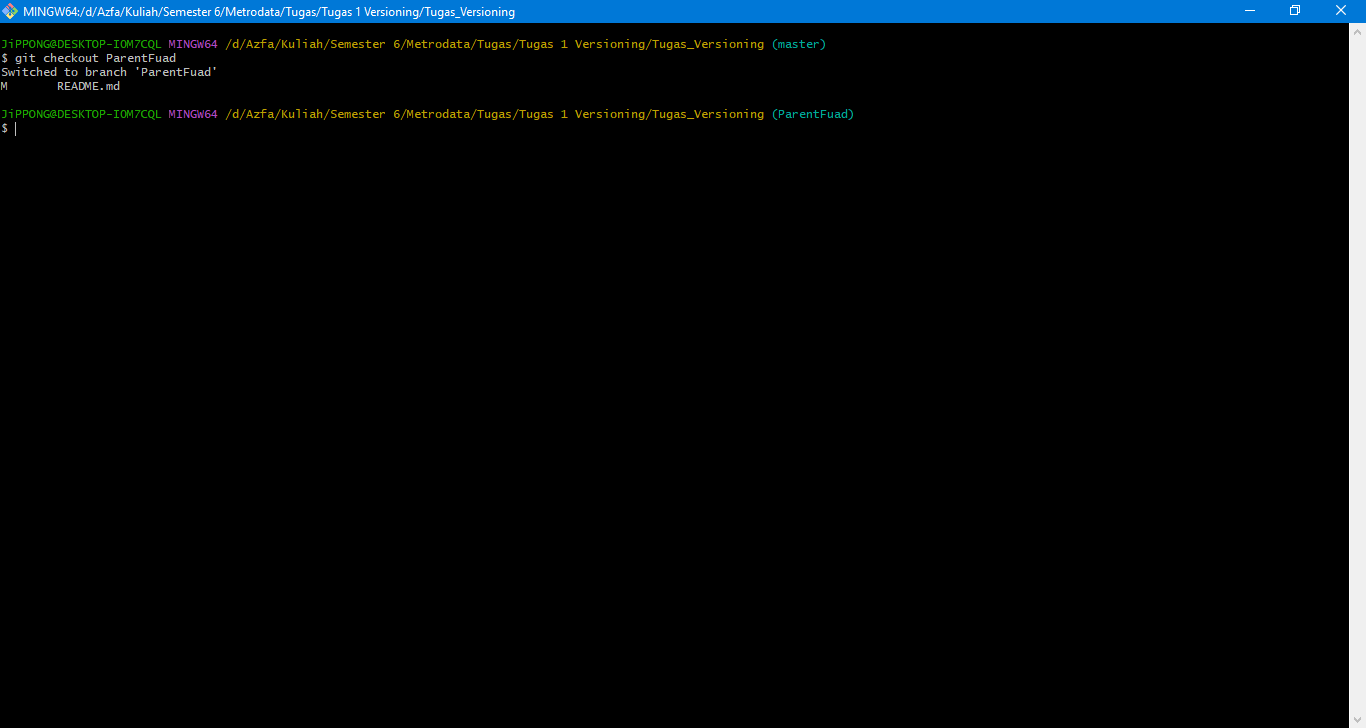
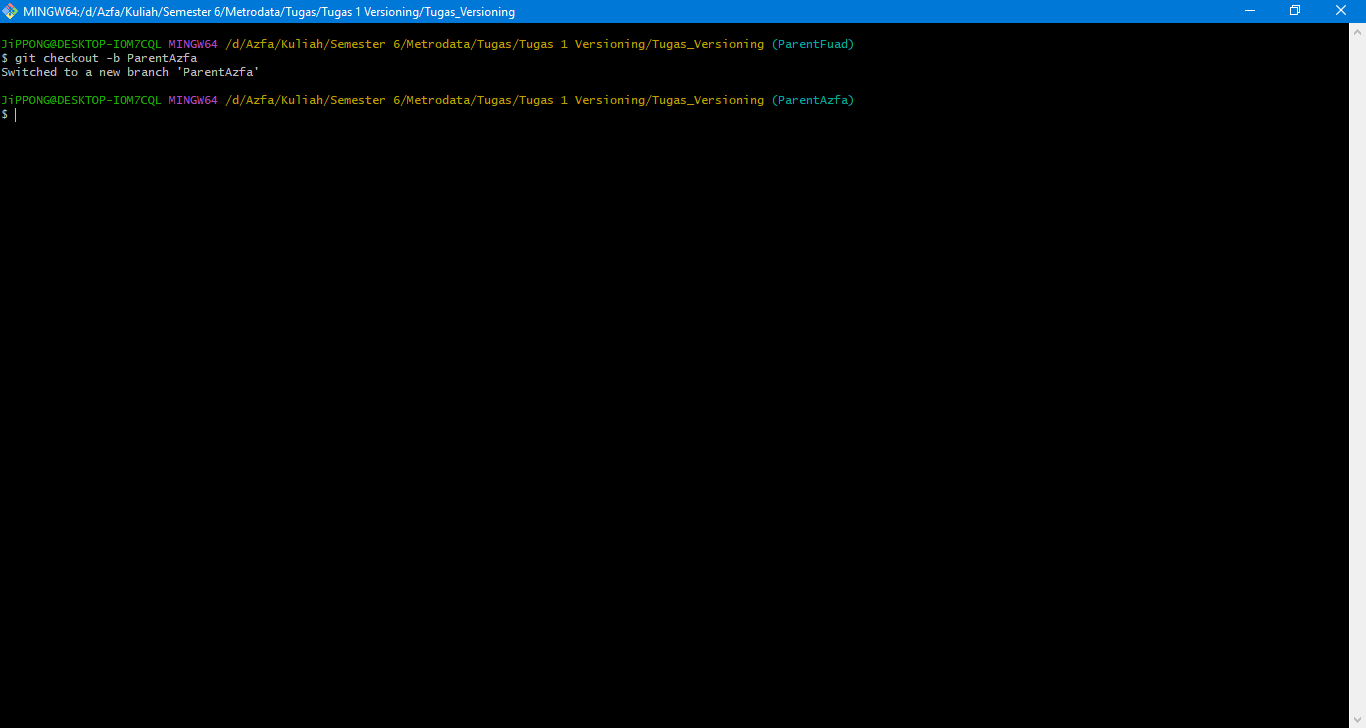
add: README.md Tugas Versioning Muhammad Azfa Az-Dzikri

Changed region(s): [[0.0, 0.0604, 0.6149, 0.1813], [0.5842, 0.0604, 0.6149, 0.0907]]

diff --git a/README.md b/README.md
@@ -9,6 +9,8 @@
 
 <p align="center"> Studi Independen Bersertifikat Kampus Merdeka Batch 6 </p>
 <p align="center"> 2024</p>
+
+# Fast Forward
 1. Membuat Folder Project
 <p align="center">
   <img src="img.png" />
@@ -37,4 +39,19 @@ setelah menambahkan git add project akan manjadi unmodified yang berasal dari un
 <p align="center">
   <img src="img_7.png" />
 </p>
-
+7. Switch Ke branch ParentAzfa dengan menambahkan git checkout -b ParentAzfa
+<p align="center">
+  <img src="img_8.png" />
+</p>
+8. Membuat branch child dengan menambahkan git checkout -b ChildAzfa
+<p align="center">
+  <img src="img_9.png" />
+</p>
+9. Membuat remote origin untuk koneksi ke repository web
+<p align="center">
+  <img src="img_10.png" />
+</p>
+10. Push ke repositorynya menggunakan git push
+<p align="center">
+  <img src="img_11.png" />
+</p>
